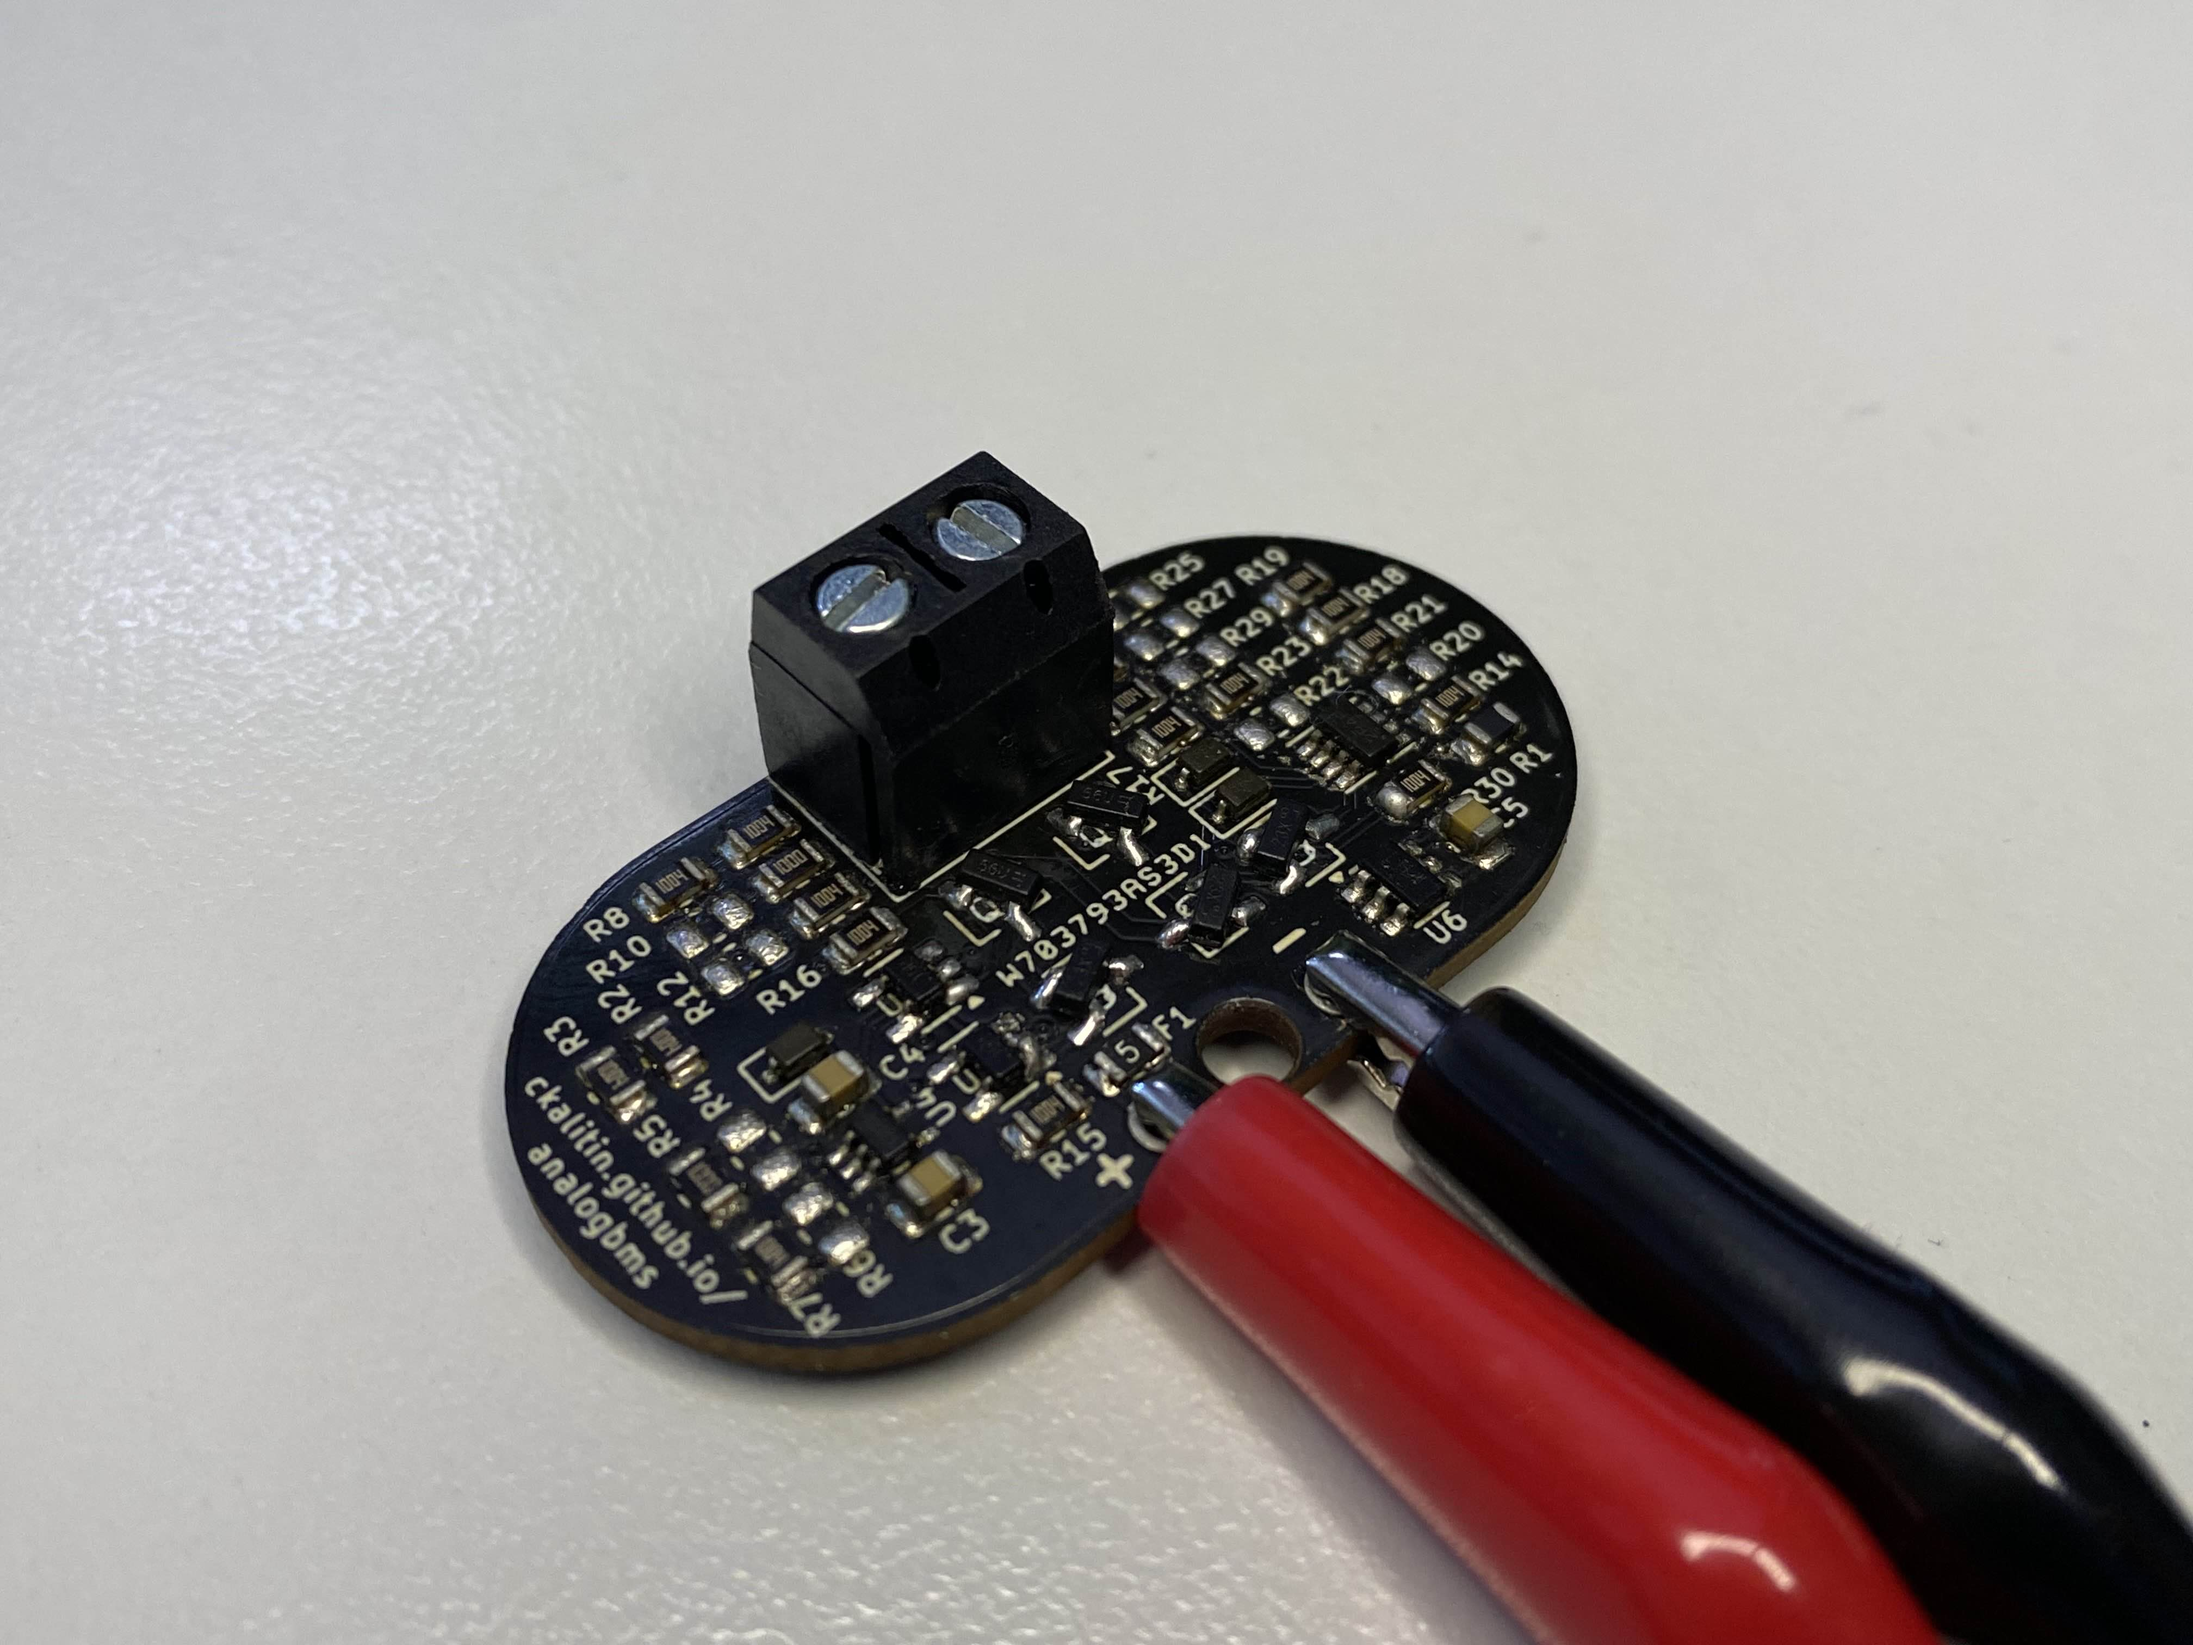
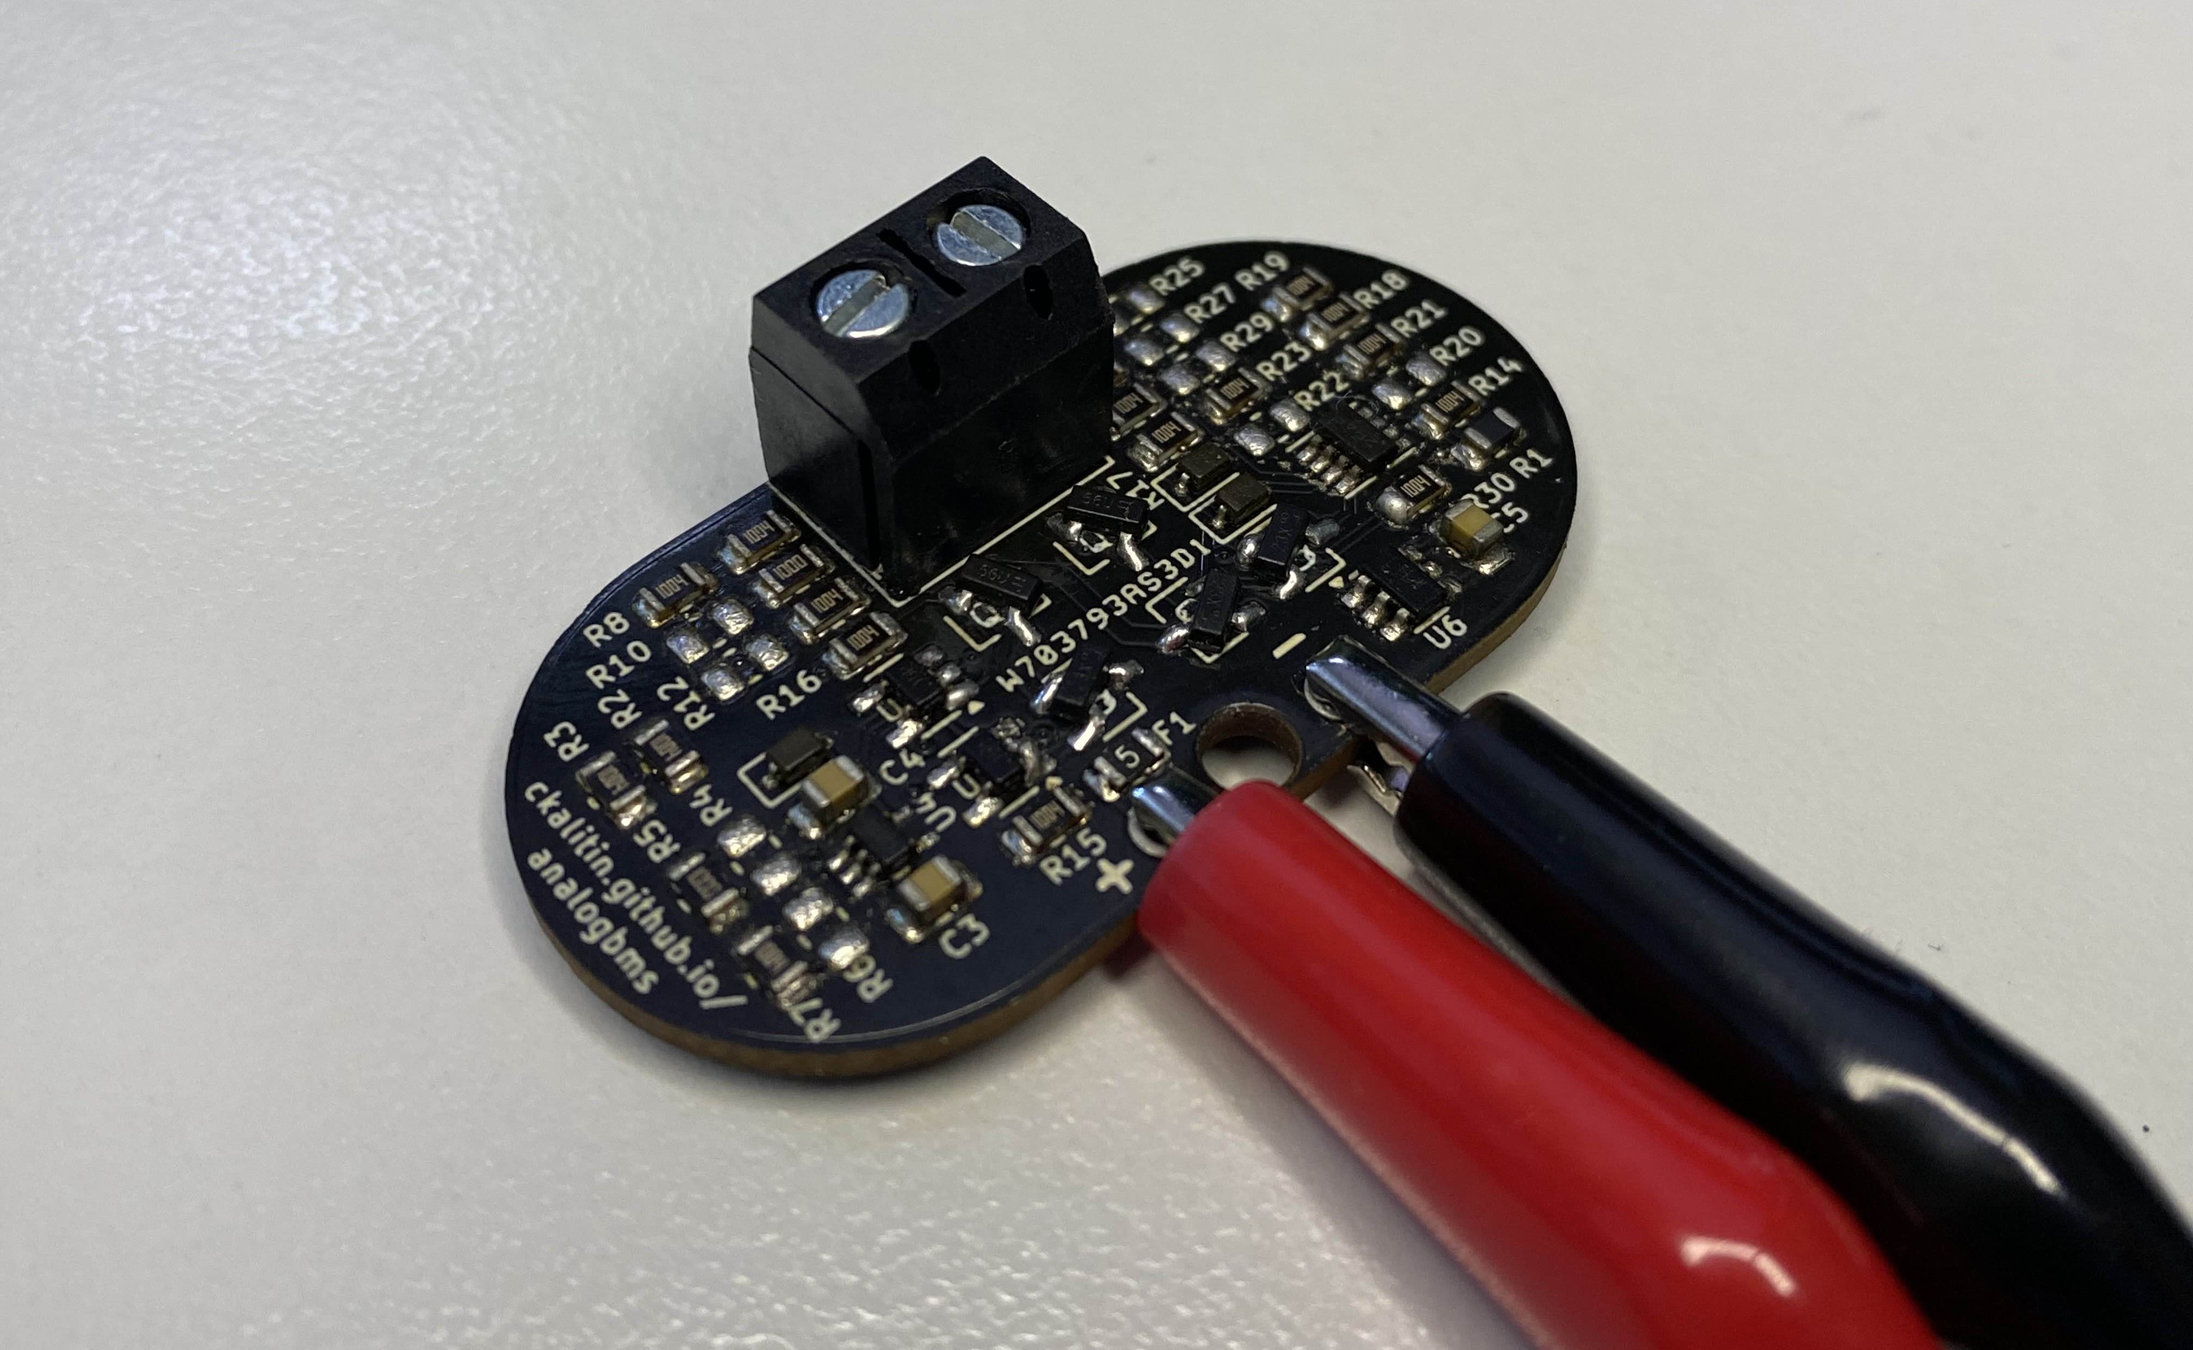
schematic test

diff --git a/_posts/2025-10-05-analog-bms-project.md b/_posts/2025-10-05-analog-bms-project.md
@@ -13,24 +13,25 @@ word_count: 2500
     <meta property="og:image" content="{{site.url}}/assets/images/must-be-beautiful/Brightside-Pack.png">
 </head>
 
-![Image](/assets/images/made-reflow-oven/header.jpg){:height="500"}
-
-***VERY IMPORTANT TO PUT AN IMAGE HERE***
+![Image](/assets/images/analog-bms-project/PCB-no-probes.jpg){:height="400"}
 
 About 6 weeks ago I read a [blog post by Vlastimil Slinták](https://uart.cz/en/2557/lto-bms-development-notes/) in which attempted to develop an Analog Battery Management System (BMS) for a 1s3p Lithium Titanate (LTO) battery pack. From what I understand, he ended up running into an issue where he could not drive a PMOS's gate high enough to open it fully, and decided to go with a low-power microcontroller in the end.
 
 I took some time to understand the circuit and decided it would be a good exercise to learn more about analog electronics and PCB design. A microcontroller really is the best way to build a BMS, but analog circuitry is fun to learn about and how our forefathers did things.
 
-Fundamentally, a BMS has 5 main functions:
+Fundamentally, a BMS has 5 main functions:  
 - Undervoltage protection (UV)
 - Overvoltage protection (OV)
 - Undertemperature protection (UT)
 - Overtemperature protection (OT)
 - Overcurrent protection (OC)
 
-Other functions include cell balancing, state of charge (SoC) estimation, and communication with other devices. All of this was out of scope for an Analog BMS and I get a good enough taste of these technical problems on the [UBC Solar student design team](https://ubcsolar.com/) where I work on the BMS for our 5.4 kWh Li-ion battery pack.
+Other functions include cell balancing, state of charge (SoC) estimation, and communication with other devices. These were out of scope for an Analog BMS and I get a good enough taste of these technical problems on the [UBC Solar student design team](https://ubcsolar.com/) where I work on the BMS for [our 5.4 kWh Li-ion battery pack](https://ckalitin.github.io/ideas/2025/09/29/must-be-beautiful.html).
 
 ### **Schematic Overview**
+
+![Image](/assets/images/analog-bms-project/PCB_schematic.jpg)  
+<i><a href="{{site.url}}/assets/images/analog-bms-project/PCB_schematic.jpg">Expanded Schematic</a></i>
 
 - Circuit Overview
     - Fundamental principle: Body diodes of FETs
